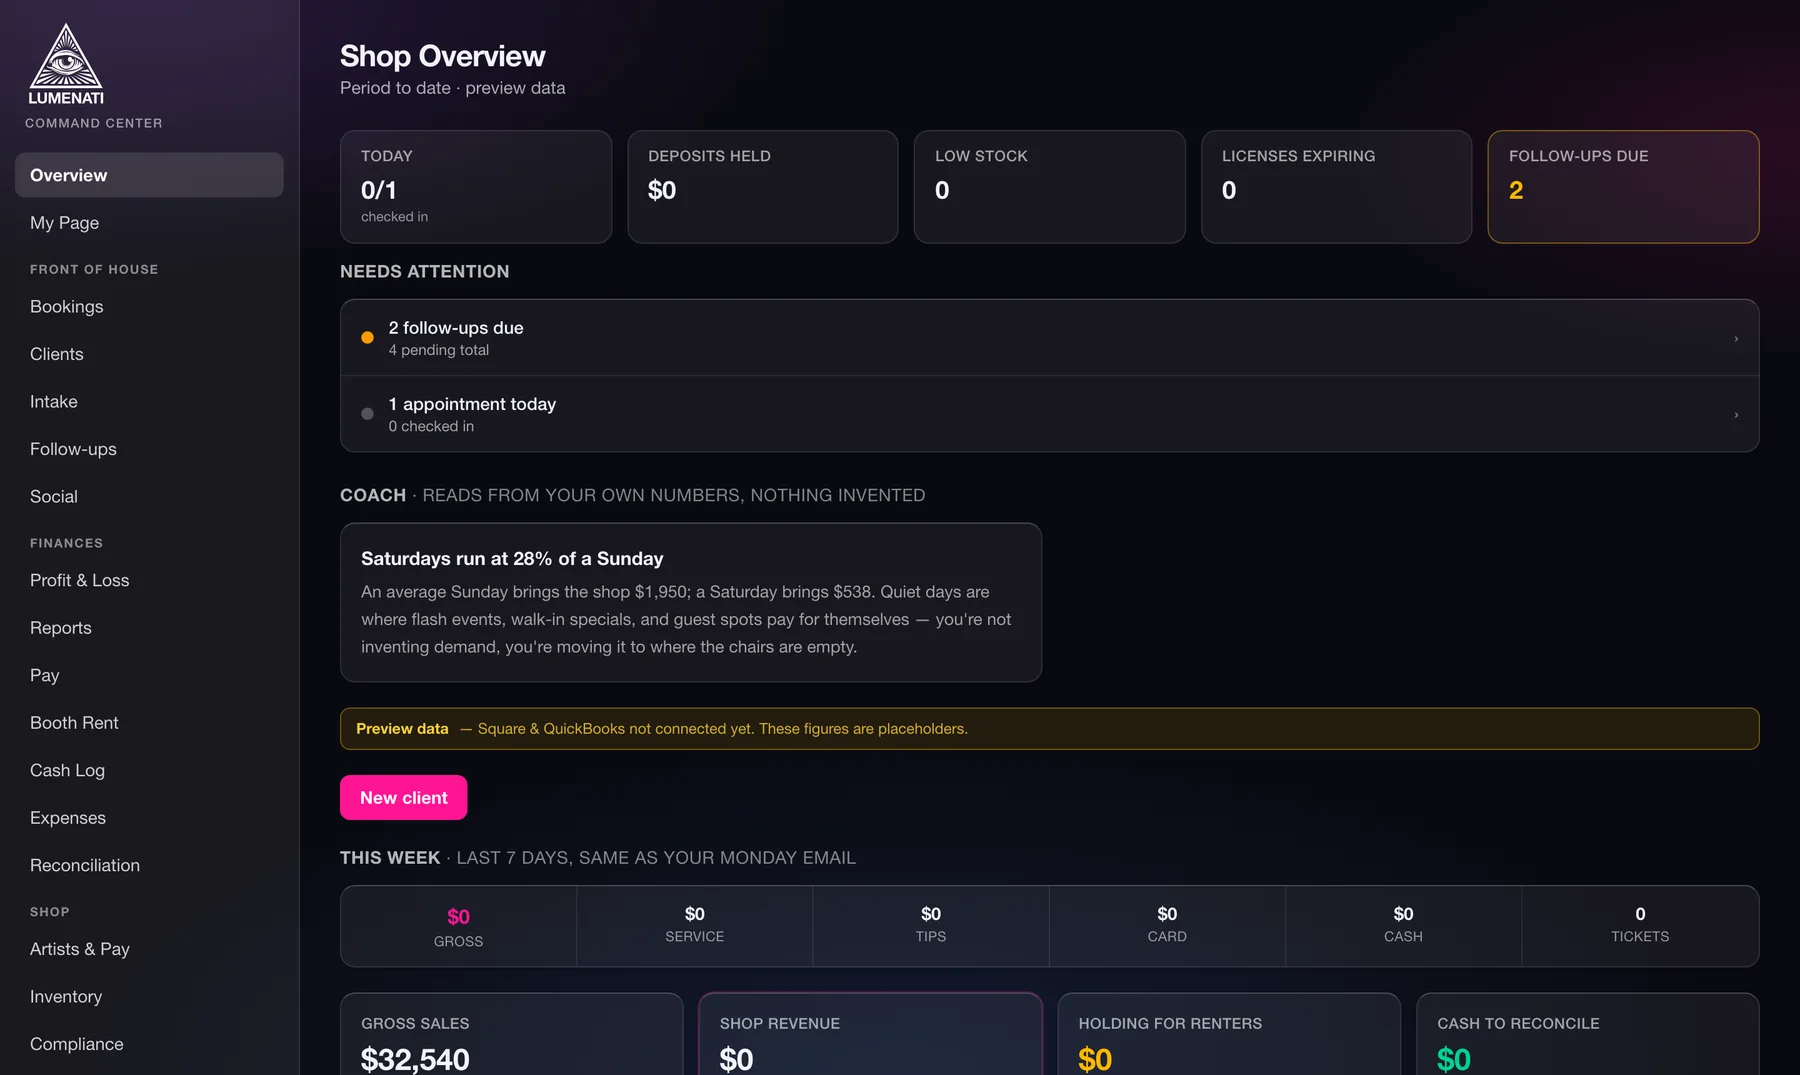
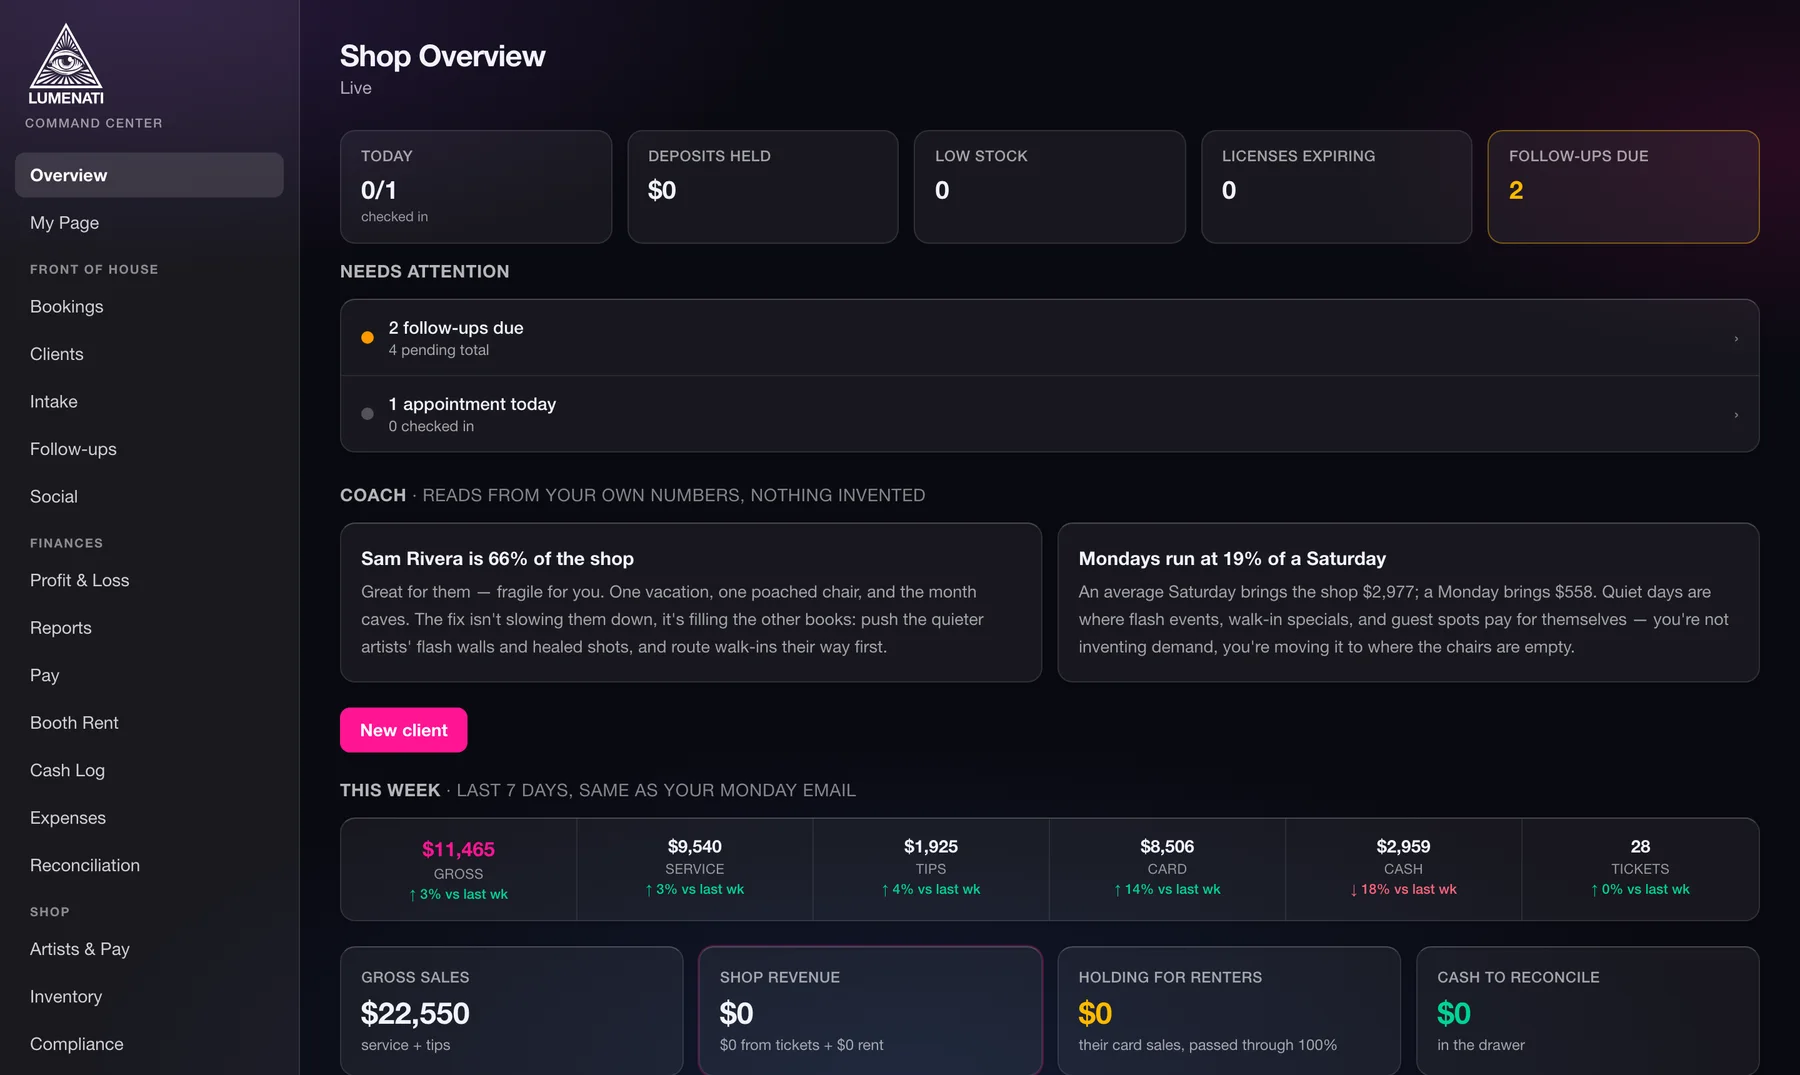
Marketing page v4: lead with the business brain, not the pages
Reframe /shops around what the product actually is — the back office for
a shop, not a booking widget:
- Hero: 'the business brain for tattoo shops'; it coaches, keeps the
  books, sends follow-ups, runs goals and taxes
- Three phones = the money app: shop revenue dashboard, each artist's
  earnings, the goals/tax/rewards screen (real app screens via Metro web)
- 'It coaches, it doesn't just track': the shop coach cards (revenue-risk
  read + quiet-day math) as the differentiator
- Keeps the books (desktop overview, waits for live data), follow-ups that
  text automatically, and the goals/taxes self-business layer
- Grid reframed to business-management capabilities; the public artist
  page demoted to one line ('the front; this is everything behind it')
- Demo tenant seeded with 14 days of sales so every money screen reads
  real (scripts/seed-review-sales.mjs, scripts/marketing-shots-app.mjs);
  fix: room editor default artist pick fell back to a Lumenati id

diff --git a/app/shops/page.tsx b/app/shops/page.tsx
@@ -1,62 +1,57 @@
 import Link from "next/link";
 import { LumenatiLogo } from "@/components/brand/LumenatiLogo";
 
-// The marketing page: the whole product, shown the way it actually gets
-// used — in phones, with zoomed-in highlights of the best moments instead
-// of full-window screenshots. Pitch line is locked (Scott, 2026-07-12).
-// Every image is the real product from the demo tenant
-// (scripts/marketing-shots.mjs regenerates them); the first phone is LIVE.
+// The marketing page. Lumenati isn't a booking widget — it's the business
+// brain for a tattoo shop: it coaches the shop and each artist, keeps the
+// books, sends the follow-ups (and texts them), and runs goals + taxes for
+// every chair. That's what this page sells. Pitch line is locked
+// (Scott, 2026-07-12). Every image is the real product from the demo tenant
+// (scripts/marketing-shots*.mjs regenerate them).
 
-const DEMO = "/s/apple-review/sam-rivera";
-
-// The up-close bento: each card is a real element, captured 1:1.
-const HIGHLIGHTS = [
+// The phone trio: the money app itself.
+const PHONES = [
   {
-    img: "/marketing/hi-preview.webp",
-    title: "Artists dress their own page",
-    body: "Photos, flash, bio, the music. A live preview sits next to the controls and changes go out the moment they're made.",
+    img: "/marketing/app-shop-home.webp",
+    title: "The shop, live",
+    body: "Every dollar, every chair, service vs tips vs card vs cash. No spreadsheet, no shoebox.",
   },
   {
-    img: "/marketing/hi-flash.webp",
-    title: "Flash sells itself",
-    body: "Priced per piece, claimed right off the page. Claimed pieces get stamped and retired on their own.",
+    img: "/marketing/app-artist-home.webp",
+    title: "What each artist made",
+    body: "Their earnings, their day, their next client. Glanceable, honest, theirs.",
   },
   {
-    img: "/marketing/hi-coach.webp",
-    title: "A coach that reads your numbers",
-    body: "Deterministic reads from your own money, never invented. It tells you where the quiet days are and what to do with them.",
-  },
-  {
-    img: "/marketing/hi-signin.webp",
-    title: "No passwords, ever",
-    body: "Your crew signs in with a code texted to their phone. Onboarding an artist takes thirty seconds.",
+    img: "/marketing/app-artist-mid.webp",
+    title: "Goals and taxes, handled",
+    body: "A number to chase, tax set aside automatically, an hourly rate they can actually see.",
   },
 ] as const;
 
+// Business-management capabilities, reframed off the front desk.
 const GRID = [
   {
-    title: "Money in one place",
-    body: "Registers, end-of-day books, artist pay, and booth rent in the Command Center instead of a spreadsheet and a shoebox.",
+    title: "Keeps the books",
+    body: "Registers, end-of-day, artist pay, booth rent, a real P&L. The QuickBooks-and-shoebox job, done in one place.",
+  },
+  {
+    title: "Sets aside taxes",
+    body: "Each artist picks their percentage once; the app reserves it out of every ticket so April is never a surprise.",
+  },
+  {
+    title: "Goals and streaks",
+    body: "Shop and artist both get a number to race, a live chart, and rewards for hitting it. It makes running the business fun.",
+  },
+  {
+    title: "Books and texts follow-ups",
+    body: "Aftercare, healed-photo check-ins, review asks, rebooking nudges — queued and texted on schedule, in your voice.",
   },
   {
     title: "Deposits and no-show defense",
-    body: "Deposits up front, applied or forfeited in one tap. When a slot frees up, the waitlist gets a claim text.",
+    body: "Deposits up front, applied or forfeited in a tap. Free a slot and the waitlist gets a claim text automatically.",
   },
   {
-    title: "Books that close cleanly",
-    body: "When an artist closes their books, every Book button becomes a waitlist door. The page never goes dark.",
-  },
-  {
-    title: "Intake and compliance",
-    body: "Consent forms signed at the chair, licenses and certs tracked with expiry warnings before they become a problem.",
-  },
-  {
-    title: "Aftercare built in",
-    body: "Care instructions land on the client's phone; healed photos come back on their own. Nobody chases it.",
-  },
-  {
-    title: "Three looks, one product",
-    body: "Every shop picks its page style. Same booking, flash, and waitlist underneath.",
+    title: "Runs on text codes",
+    body: "No passwords. Your crew signs in with a code texted to their phone, and onboarding an artist takes thirty seconds.",
   },
 ] as const;
 
@@ -78,10 +73,10 @@ export default function ShopsMarketingPage() {
         </nav>
       </header>
 
-      {/* Hero — the locked pitch. */}
-      <section className="mkt-rise mx-auto max-w-3xl px-5 pb-12 pt-16 text-center sm:pt-20">
+      {/* Hero — the locked pitch, reframed toward running the business. */}
+      <section className="mkt-rise mx-auto max-w-3xl px-5 pb-10 pt-16 text-center sm:pt-20">
         <div className="text-[11px] font-bold uppercase text-brand" style={{ letterSpacing: "0.35em" }}>
-          For tattoo shops
+          The business brain for tattoo shops
         </div>
         <h1 className="mt-4 text-4xl font-black leading-tight tracking-tight sm:text-6xl">
           Keep your website.
@@ -89,8 +84,8 @@ export default function ShopsMarketingPage() {
           <span className="text-brand">We take over everything behind it.</span>
         </h1>
         <p className="mx-auto mt-6 max-w-xl text-base text-zinc-300 sm:text-lg">
-          Every artist gets a page built to get them booked. You get a command center that runs
-          the whole back office. No front desk required.
+          It coaches the shop and every artist, keeps the books, sends the follow-ups, and runs
+          goals and taxes for each chair. The whole back office, in a phone.
         </p>
         <div className="mt-9 flex items-center justify-center gap-4">
           <Link
@@ -99,95 +94,59 @@ export default function ShopsMarketingPage() {
           >
             Set up your shop
           </Link>
-          <a href={DEMO} className="text-sm font-semibold text-zinc-300 hover:text-white">
-            See a live artist page
+          <a href="#coach" className="text-sm font-semibold text-zinc-300 hover:text-white">
+            See how it coaches
           </a>
         </div>
       </section>
 
-      {/* The product, in phones. First one is live. */}
-      <section className="mkt-rise-2 pb-6">
-        <div className="flex snap-x items-start justify-start gap-7 overflow-x-auto px-8 pb-8 pt-4 xl:justify-center">
-          <figure className="flex-none snap-center">
-            <div className="mkt-phone">
-              <iframe src={DEMO} title="Live artist page demo" loading="lazy" />
-            </div>
-            <figcaption className="mt-3 text-center text-sm text-zinc-400">
-              The artist page. <span className="font-semibold text-brand">Live, scroll it.</span>
-            </figcaption>
-          </figure>
-          <figure className="flex-none snap-center sm:mt-10">
-            <div className="mkt-phone">
-              {/* eslint-disable-next-line @next/next/no-img-element */}
-              <img src="/marketing/pocket.webp" alt="The Command Center overview on a phone" />
-            </div>
-            <figcaption className="mt-3 text-center text-sm text-zinc-400">
-              The whole shop, from a pocket.
-            </figcaption>
-          </figure>
-          <figure className="flex-none snap-center sm:mt-20">
-            <div className="mkt-phone">
-              {/* eslint-disable-next-line @next/next/no-img-element */}
-              <img src="/marketing/phone-bookings.webp" alt="Bookings on a phone: the day, deposits, one-tap complete or no-show" />
-            </div>
-            <figcaption className="mt-3 text-center text-sm text-zinc-400">
-              The day runs itself: deposits, one-tap close-out.
-            </figcaption>
-          </figure>
-        </div>
-      </section>
-
-      {/* The good stuff, up close. */}
-      <section className="mx-auto max-w-6xl px-5 pb-20 pt-10">
-        <div className="mx-auto max-w-2xl text-center">
-          <h2 className="text-2xl font-black tracking-tight sm:text-3xl">
-            The good stuff, up close
-          </h2>
-          <p className="mt-3 text-sm text-zinc-400">
-            Real pieces of the product, not mockups.
-          </p>
-        </div>
-        <div className="mt-10 grid grid-cols-1 gap-6 sm:grid-cols-2">
-          {HIGHLIGHTS.map((h) => (
-            <figure key={h.title} className="mkt-glass overflow-hidden">
-              <div className="border-b border-white/8 bg-black/30 p-5">
+      {/* The money app, in phones. */}
+      <section className="mkt-rise-2 pb-8">
+        <div className="flex snap-x items-start justify-start gap-7 overflow-x-auto px-8 pb-6 pt-4 xl:justify-center">
+          {PHONES.map((p, i) => (
+            <figure key={p.title} className={`flex-none snap-center ${i === 1 ? "sm:mt-10" : i === 2 ? "sm:mt-20" : ""}`}>
+              <div className="mkt-phone">
                 {/* eslint-disable-next-line @next/next/no-img-element */}
-                <img src={h.img} alt={h.title} className="mx-auto max-h-105 w-auto max-w-full rounded-lg" />
+                <img src={p.img} alt={p.title} />
               </div>
-              <figcaption className="p-5">
-                <div className="text-base font-bold">{h.title}</div>
-                <p className="mt-1.5 text-sm leading-relaxed text-zinc-400">{h.body}</p>
+              <figcaption className="mx-auto mt-4 max-w-64 text-center">
+                <div className="text-base font-bold">{p.title}</div>
+                <p className="mt-1 text-sm text-zinc-400">{p.body}</p>
               </figcaption>
             </figure>
           ))}
         </div>
+      </section>
 
-        {/* The flywheel strip — real queue rows, full width. */}
-        <figure className="mkt-glass mt-6 overflow-hidden">
-          <div className="border-b border-white/8 bg-black/30 p-5">
-            {/* eslint-disable-next-line @next/next/no-img-element */}
-            <img src="/marketing/hi-followups.webp" alt="The follow-up queue: aftercare and reminders lined up to send" className="w-full rounded-lg" />
+      {/* The differentiator: it coaches, it doesn't just track. */}
+      <section id="coach" className="mx-auto max-w-5xl px-5 pb-24 pt-12">
+        <div className="mx-auto max-w-2xl text-center">
+          <div className="text-[11px] font-bold uppercase text-brand" style={{ letterSpacing: "0.3em" }}>
+            It coaches, it doesn&apos;t just track
           </div>
-          <figcaption className="p-5">
-            <div className="text-base font-bold">Follow-ups send themselves</div>
-            <p className="mt-1.5 text-sm leading-relaxed text-zinc-400">
-              Aftercare, healed-photo check-ins, review asks, and rebooking nudges queue up and go
-              out on schedule, in your shop&apos;s voice. The work that never got done at the desk
-              now happens every time.
-            </p>
-          </figcaption>
+          <h2 className="mt-3 text-2xl font-black tracking-tight sm:text-3xl">
+            A read on what you can actually control
+          </h2>
+          <p className="mt-3 text-sm text-zinc-400">
+            Plain-English coaching from your own numbers, never invented. It tells the owner where
+            the revenue risk is and what to do about it, and it does the same for every artist.
+          </p>
+        </div>
+        <figure className="mkt-glass mx-auto mt-10 max-w-2xl overflow-hidden">
+          <div className="bg-black/30 p-5">
+            {/* eslint-disable-next-line @next/next/no-img-element */}
+            <img src="/marketing/hi-shop-coach.webp" alt="The coach: 'Sam Rivera is 66% of the shop — great for them, fragile for you,' and 'Mondays run at 19% of a Saturday'" className="w-full rounded-lg" />
+          </div>
         </figure>
       </section>
 
-      {/* One wide shot: the back office exists and it's deep. */}
+      {/* Keeps the books — the desktop revenue overview. */}
       <section className="mx-auto max-w-6xl px-5 pb-24">
         <div className="mx-auto max-w-2xl pb-8 text-center">
-          <h2 className="text-2xl font-black tracking-tight sm:text-3xl">
-            And a whole back office behind it
-          </h2>
+          <h2 className="text-2xl font-black tracking-tight sm:text-3xl">Keeps the books</h2>
           <p className="mt-3 text-sm text-zinc-400">
-            Money, pay, rent, inventory, compliance, reports. On a desk when you want the big
-            picture, in your pocket when you don&apos;t.
+            The money, the week, what needs a decision, all in one overview. On a desk when you
+            want the big picture, in your pocket when you don&apos;t.
           </p>
         </div>
         <div className="mkt-browser">
@@ -197,18 +156,59 @@ export default function ShopsMarketingPage() {
             <span />
           </div>
           {/* eslint-disable-next-line @next/next/no-img-element */}
-          <img src="/marketing/command-center.webp" alt="The Lumenati Command Center: shop overview with the day, follow-ups due, coach reads, and the week's money" />
+          <img src="/marketing/command-center.webp" alt="The Lumenati Command Center overview: the week's money, coach reads, and what needs attention" />
+        </div>
+      </section>
+
+      {/* Follow-ups + goals/tax, two glass beats. */}
+      <section className="mx-auto max-w-6xl space-y-8 px-5 pb-24">
+        <figure className="mkt-glass overflow-hidden">
+          <div className="border-b border-white/8 bg-black/30 p-5">
+            {/* eslint-disable-next-line @next/next/no-img-element */}
+            <img src="/marketing/hi-followups.webp" alt="The follow-up queue: aftercare and reminders lined up to text automatically" className="w-full rounded-lg" />
+          </div>
+          <figcaption className="p-5">
+            <div className="text-base font-bold">Follow-ups send themselves, and text automatically</div>
+            <p className="mt-1.5 text-sm leading-relaxed text-zinc-400">
+              Aftercare, healed-photo check-ins, review asks, and rebooking nudges queue up and go
+              out on schedule over text, in your shop&apos;s voice. The retention work that never
+              got done at the desk now happens every time.
+            </p>
+          </figcaption>
+        </figure>
+
+        <div className="grid items-center gap-8 md:grid-cols-2 md:gap-12">
+          <div>
+            <div className="text-[11px] font-bold uppercase text-brand" style={{ letterSpacing: "0.3em" }}>
+              The self-business layer
+            </div>
+            <h2 className="mt-3 text-2xl font-black tracking-tight sm:text-3xl">
+              Goals, taxes, and the whole business
+            </h2>
+            <p className="mt-4 text-sm leading-relaxed text-zinc-300 sm:text-base">
+              Every artist gets a number to chase and a chart that races them against it, a tax
+              reserve that sets money aside out of each ticket, an hourly rate they can finally
+              see, and rewards for hitting milestones. It turns each chair into a solopreneur who
+              actually runs their money, not a name on a schedule.
+            </p>
+          </div>
+          <figure className="mkt-glass overflow-hidden">
+            <div className="bg-black/30 p-5">
+              {/* eslint-disable-next-line @next/next/no-img-element */}
+              <img src="/marketing/hi-goals-tax.webp" alt="An artist's goals: tax reserve, reward badges, and a goal chart racing upward" className="mx-auto max-h-125 w-auto rounded-lg" />
+            </div>
+          </figure>
         </div>
       </section>
 
       {/* Everything else, glass grid. */}
-      <section className="mx-auto max-w-6xl px-5 pb-24">
+      <section className="mx-auto max-w-6xl px-5 pb-20">
         <div className="mx-auto max-w-2xl text-center">
           <h2 className="text-2xl font-black tracking-tight sm:text-3xl">
             No front desk. On purpose.
           </h2>
           <p className="mt-3 text-sm text-zinc-400">
-            Great shops run on great artists, not a counter. Everything a desk used to do,
+            Great shops run on great artists, not a counter. Everything a back office does,
             handled.
           </p>
         </div>
@@ -220,6 +220,11 @@ export default function ShopsMarketingPage() {
             </div>
           ))}
         </div>
+        <p className="mx-auto mt-8 max-w-2xl text-center text-sm text-zinc-500">
+          And yes, every artist gets a public page built to get them booked, in{" "}
+          <a href="/s/apple-review/sam-rivera" className="font-semibold text-brand hover:brightness-110">three looks</a>.
+          It&apos;s the front of the business. This is everything behind it.
+        </p>
       </section>
 
       {/* Close — same door as the hero. */}
